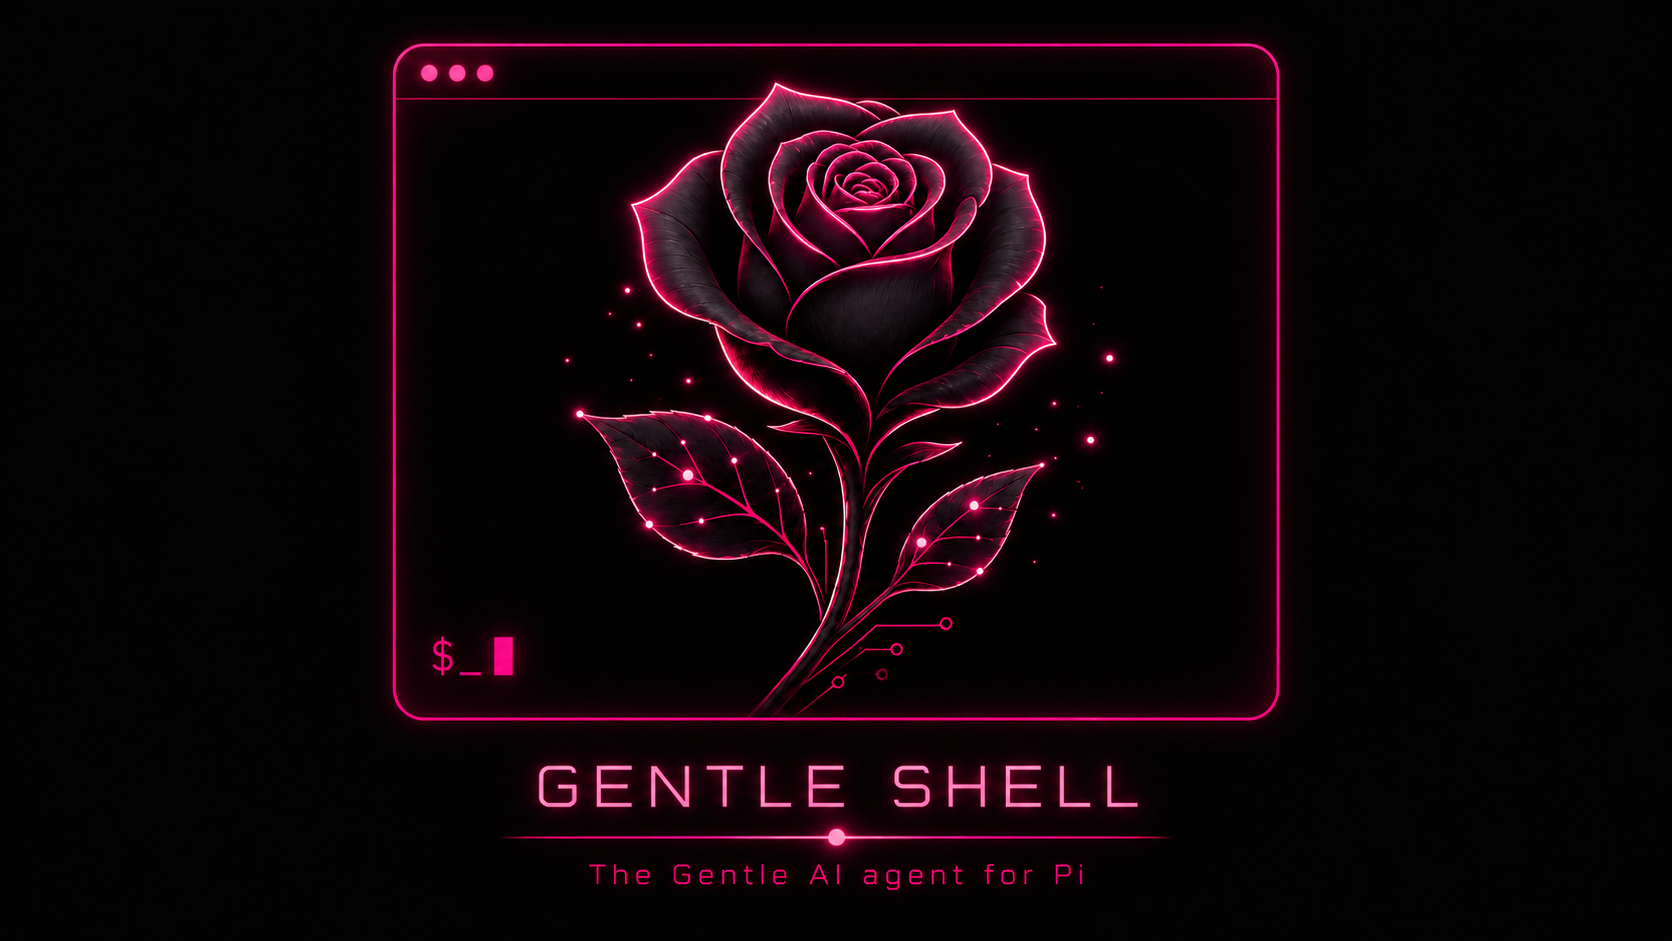
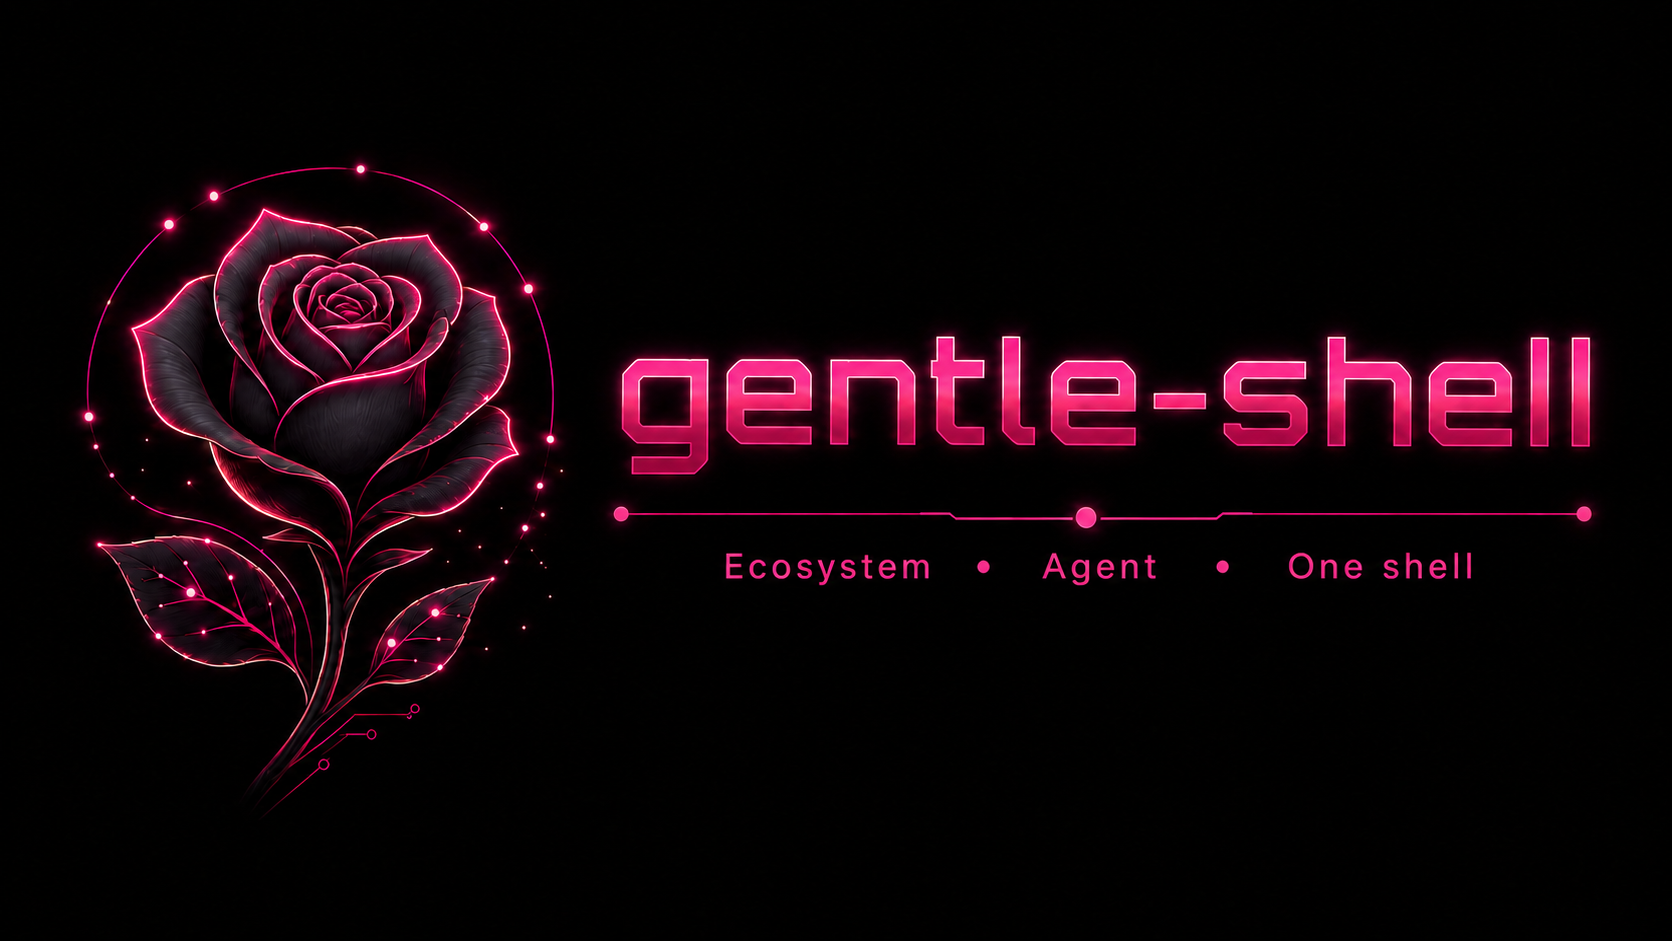
docs: present gentle-shell as the coding agent

diff --git a/README.md b/README.md
@@ -1,12 +1,12 @@
 <a id="top"></a>
 
 <div align="center">
-  <img src="docs/assets/brand/gentle-pi-banner.png" width="1200" alt="Gentle Shell — The Gentle AI agent for Pi">
+  <img src="docs/assets/brand/gentle-pi-banner.png" width="1200" alt="gentle-shell — Ecosystem, Agent, One shell">
 </div>
 
-<h1 align="center">Gentle-PI™</h1>
+<h1 align="center">gentle-shell™</h1>
 
-<p align="center"><strong>Turn Pi from a powerful coding agent into a controlled development harness.</strong></p>
+<p align="center"><strong>Your coding agent for controlled development in the workspace you lead.</strong></p>
 
 <p align="center">
   <a href="https://www.npmjs.com/package/gentle-pi"><img src="https://img.shields.io/npm/v/gentle-pi?style=for-the-badge&labelColor=1A1218&color=F095C8" alt="npm"></a>
@@ -30,14 +30,14 @@
 
 <br>
 
-<p align="center">Your terminal can run an agent. Your workspace should help you lead it.<br><strong>gentle-pi brings your agents, changes, tasks, and engineering workflow together—inside Pi.</strong></p>
+<p align="center">Your terminal can run an agent. Your workspace should help you lead it.<br><strong>gentle-shell is your coding agent, bringing your changes, tasks, and engineering workflow together—built for Pi.</strong></p>
 
-<p align="center"><sub>One workspace. Focused agents. A workflow you can inspect.</sub></p>
+<p align="center"><sub>One workspace. A coding agent you direct. A workflow you can inspect.</sub></p>
 
-<p align="center"><strong>BUILT FOR PI</strong> &nbsp;·&nbsp; Native workspace &nbsp;·&nbsp; Focused agents &nbsp;·&nbsp; Optional SDD</p>
+<p align="center"><strong>BUILT FOR PI</strong> &nbsp;·&nbsp; Coding-agent workspace &nbsp;·&nbsp; Focused agents &nbsp;·&nbsp; Optional SDD</p>
 
 <p align="center">
-  <a href="https://github.com/Gentleman-Programming/gentle-pi/stargazers"><strong>★ Star gentle-pi on GitHub</strong></a>
+  <a href="https://github.com/Gentleman-Programming/gentle-pi/stargazers"><strong>★ Star gentle-shell on GitHub</strong></a>
 </p>
 
 <div align="center">
@@ -72,19 +72,19 @@
 
 ---
 
-### Gentle Shell — The way Gentle-AI was intended
+### gentle-shell — Your coding agent, in the workspace you lead
 
 <p align="center">
-  <img src="docs/assets/features/gentle-shell.png" width="1200" alt="Gentle Shell showing an SDD agent task, todo list, changes summary, status bar, and usage footer in Pi">
+  <img src="docs/assets/features/gentle-shell.png" width="1200" alt="gentle-shell showing an SDD agent task, todo list, changes summary, status bar, and usage footer in Pi">
 </p>
 
-<strong>A complete workspace built for you.</strong> Gentle Shell transforms Pi into a full development environment with native plugins for agent orchestration, usage monitoring for supported provider accounts, and built-in diff views—all in one integrated layout.
+<strong>A complete workspace for the agent you direct.</strong> gentle-shell is your coding agent, built for Pi, with native workspace features for agent orchestration, usage monitoring for supported provider accounts, and built-in diff views—all in one integrated layout.
 
 See active tasks, session changes, and runtime status without leaving the work you are leading.
 
-<p align="center"><sub>Gentle Shell in action. Screenshot from <a href="https://raw.githubusercontent.com/Gentleman-Programming/gentle-ai/main/docs/assets/features/gentle-shell.png">Gentle-AI</a>.</sub></p>
+<p align="center"><sub>gentle-shell in action. Screenshot from <a href="https://raw.githubusercontent.com/Gentleman-Programming/gentle-ai/main/docs/assets/features/gentle-shell.png">Gentle-AI</a>.</sub></p>
 
-**[→ Read the Gentle Shell reference](docs/gentle-shell.md)**
+**[→ Read the gentle-shell reference](docs/gentle-shell.md)**
 
 ---
 
@@ -140,7 +140,7 @@ Review the exact change, not a moving target. Native review keeps one candidate 
 
 | Capability | What it brings to the workspace |
 | --- | --- |
-| Startup and runtime panel | A configurable Gentle entry point and visible runtime state for Pi. |
+| Startup and runtime panel | A configurable gentle-shell entry point and visible runtime state for Pi. |
 | Skills and delivery guidance | Package skills for documentation, issue work, PRs, reviews, and reviewable work units. |
 | Model, effort, persona, and profile controls | Explicit knobs for how Pi routes and presents work. |
 | Safety boundaries | Guards around destructive operations and sensitive-path handling. |
@@ -172,6 +172,8 @@ These are companions, not hidden prerequisites or a claim that every Pi installa
 ## Get started
 
 Install the stable release, then open Pi in the project you want to work on.
+
+> **Naming transition:** The product is called `gentle-shell`; the current npm package and repository remain `gentle-pi` until migration.
 
 ```bash
 # Stable release
@@ -206,7 +208,7 @@ Start with the product-facing destination, then move into the operational refere
 
 | Destination | Purpose |
 | --- | --- |
-| [Gentle Shell reference](docs/gentle-shell.md) | Workspace layout, changes, usage, agents, and todo interactions. |
+| [gentle-shell reference](docs/gentle-shell.md) | Workspace layout, changes, usage, agents, and todo interactions. |
 | [README technical reference](docs/readme-reference.md) | Preserved installation, release policy, configuration, SDD/OpenSpec, commands, skills, and contributor detail. |
 | [Review integration](docs/review-integration.md) | The provider/consumer boundary for native review. |
 | [Native authority architecture](docs/native-authority-architecture.md) | Ownership boundaries and review architecture. |
@@ -231,7 +233,7 @@ This project is built in public. Bring a real workflow, a sharp question, a bug 
 </p>
 
 <p align="center">
-  <a href="https://github.com/Gentleman-Programming/gentle-pi/graphs/contributors"><img src="https://contrib.rocks/image?repo=Gentleman-Programming/gentle-pi" alt="gentle-pi contributors"></a>
+  <a href="https://github.com/Gentleman-Programming/gentle-pi/graphs/contributors"><img src="https://contrib.rocks/image?repo=Gentleman-Programming/gentle-pi" alt="gentle-shell contributors"></a>
 </p>
 
 - Open an [issue](https://github.com/Gentleman-Programming/gentle-pi/issues) with the context needed to reproduce or understand the idea.
@@ -246,7 +248,7 @@ This project is built in public. Bring a real workflow, a sharp question, a bug 
 
 ## About the author
 
-`gentle-pi` is built by [Alan Buscaglia](https://github.com/Gentleman-Programming), the maker behind Gentleman Programming. It grew from a practical belief: capable agents are more useful when the human’s intent, review load, and delivery judgment stay visible all the way through the work.
+`gentle-shell` is built by [Alan Buscaglia](https://github.com/Gentleman-Programming), the maker behind Gentleman Programming. It grew from a practical belief: capable agents are more useful when the human’s intent, review load, and delivery judgment stay visible all the way through the work.
 
 Startup intro collaboration: thanks to [@aporcelli](https://github.com/aporcelli) and [`pi-gentle-startup`](https://github.com/aporcelli/pi-gentle-startup), which inspired the clean-screen startup animation, compact runtime panel, and pink visual treatment.
 
